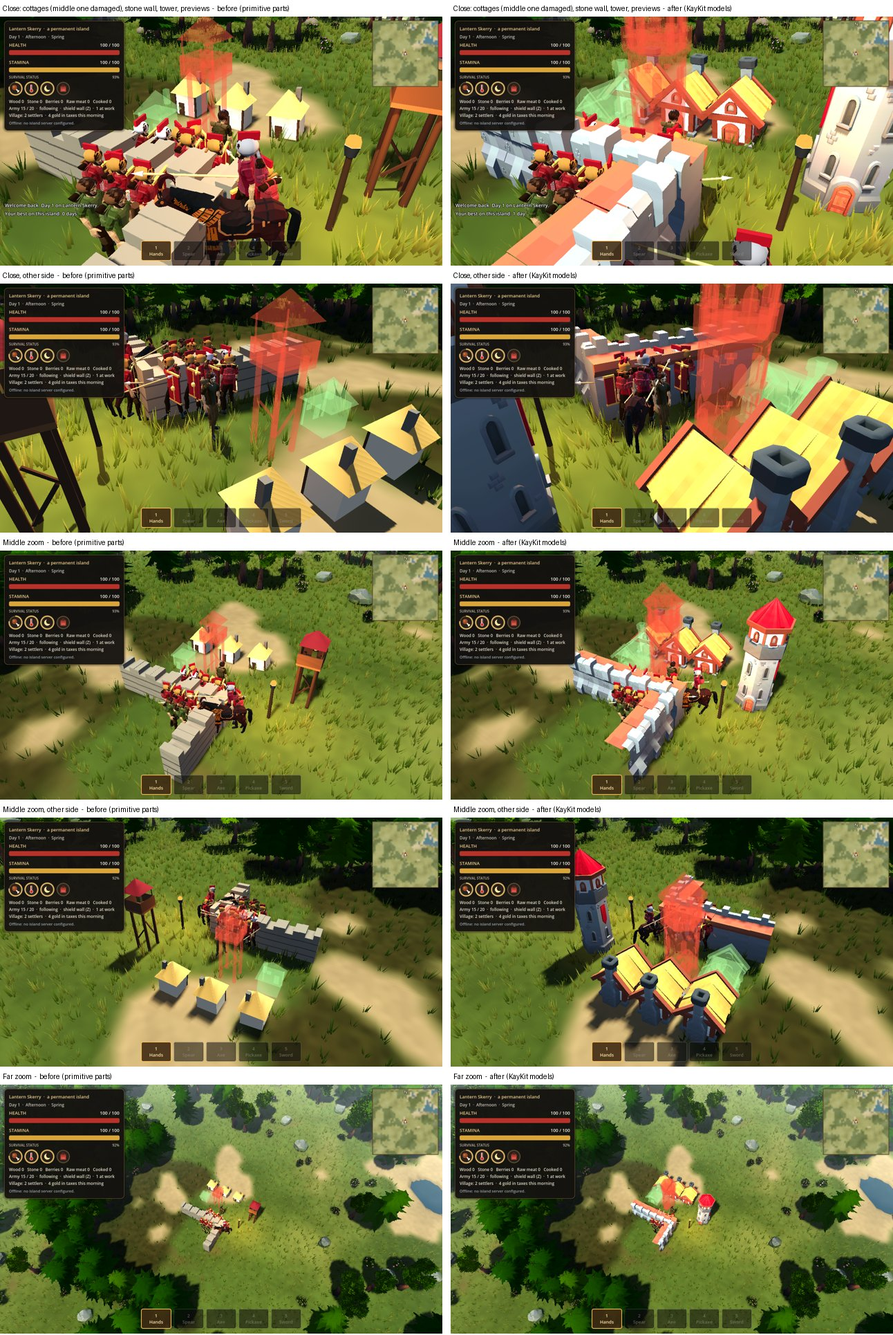
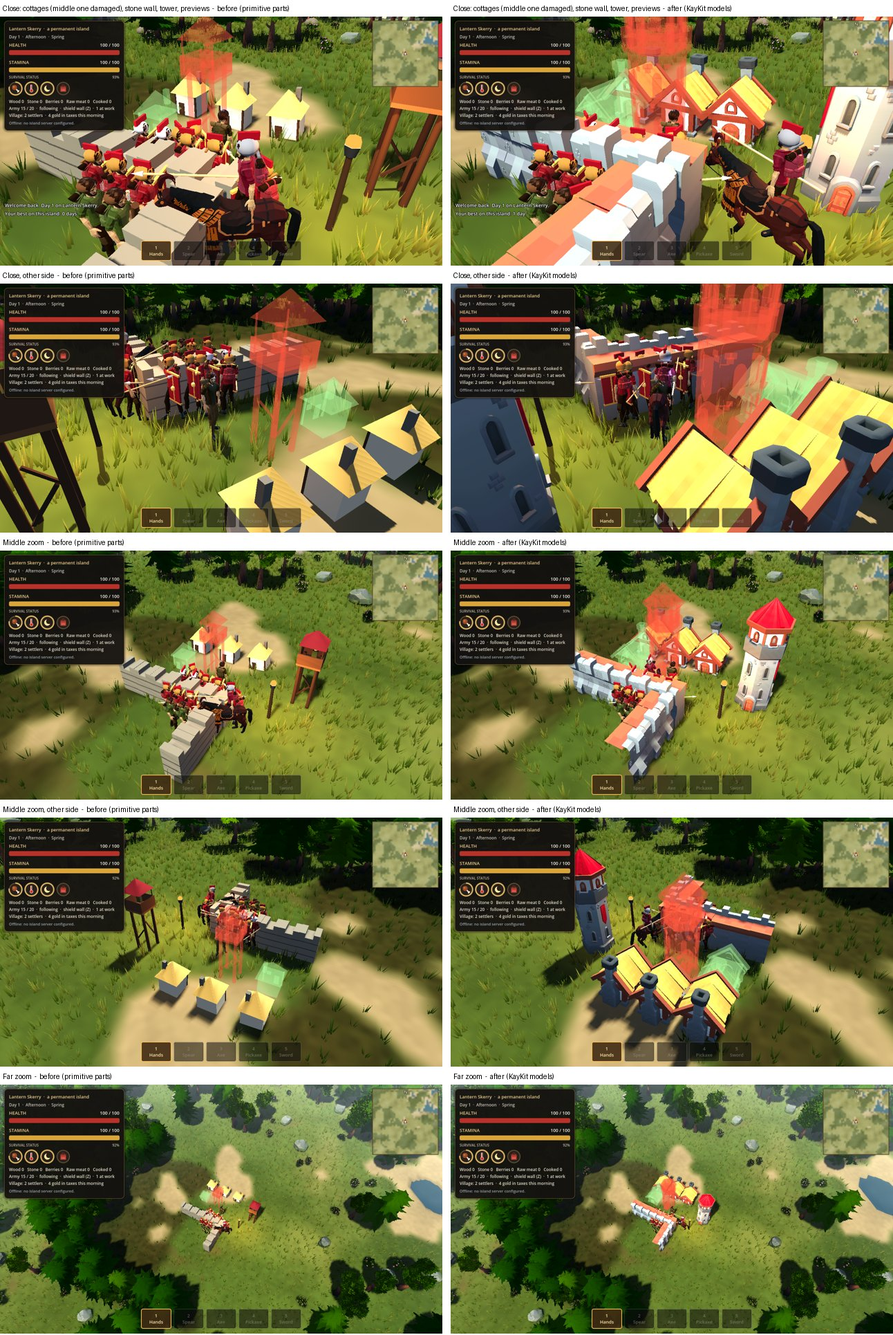
Building prototype: restore the cottages' soft night-time window glow
The cottage model's window glass is copied into a second surface, drawn with
the same shared glowing material the old cottage window used: no new
material, and 2 surfaces per cottage like before.

Claude-Session: https://claude.ai/code/session_01MPQsoYU4m9GjPH9jr69ReG

diff --git a/last-light/tools/prepare_building_models.py b/last-light/tools/prepare_building_models.py
@@ -13,7 +13,10 @@ For each building it:
     changes how they look: collision and placement stay on the one tile;
   * for the wall, keeps a 1 m section of the pack's 2 m wall (the pack's
     walls follow hexagon edges; the game's walls are one tile long);
-  * writes a .glb with no textures (the game loads the shared atlas itself).
+  * writes a .glb with no textures (the game loads the shared atlas itself);
+  * for the cottage, adds a second surface: copies of its window glass, just
+    in front of it, which the game draws with the shared glowing material the
+    old cottage's window used (its night-time glow).
 It also writes the atlas, hexagons_medieval.png. The pack's is a 1024x1024
 palette of flat colour blocks; at 128x128 no colour the three models use moves
 by more than 1/255, and it's 64 times less texture memory and download.
@@ -34,6 +37,9 @@ MODELS = {
 }
 
 ATLAS_SIZE = 128
+# Buildings whose windows glow at night, and the greys of window glass in the game's atlas.
+WINDOW_GLOW = {"cottage"}
+GLASS = {(0x8f, 0x86, 0x7e), (0x92, 0x8a, 0x81), (0x99, 0x91, 0x89), (0x9a, 0x93, 0x8b)}
 
 FMT = {5126: ("f", 4), 5125: ("I", 4), 5123: ("H", 2), 5121: ("B", 1)}
 WIDTH = {"SCALAR": 1, "VEC2": 2, "VEC3": 3, "VEC4": 4}
@@ -138,7 +144,8 @@ def convert(pos, nrm, uv, idx, scale, turn, keep):
     return P, N, U, I
 
 
-def write_glb(path, name, P, N, U, I):
+def write_glb(path, name, surfaces):
+    """surfaces: [(material name, positions, normals, uvs, indices)], one primitive each."""
     data = bytearray()
     views, accessors = [], []
 
@@ -158,12 +165,15 @@ def write_glb(path, name, P, N, U, I):
         accessors.append(acc)
         return len(accessors) - 1
 
-    prim = {"attributes": {"POSITION": add(P, 5126, "VEC3", 34962, True), "NORMAL": add(N, 5126, "VEC3", 34962),
-                           "TEXCOORD_0": add(U, 5126, "VEC2", 34962)},
-            "indices": add(I, 5123 if len(P) < 65536 else 5125, "SCALAR", 34963), "material": 0}
+    prims, materials = [], []
+    for mat, P, N, U, I in surfaces:
+        prims.append({"attributes": {"POSITION": add(P, 5126, "VEC3", 34962, True), "NORMAL": add(N, 5126, "VEC3", 34962),
+                                     "TEXCOORD_0": add(U, 5126, "VEC2", 34962)},
+                      "indices": add(I, 5123 if len(P) < 65536 else 5125, "SCALAR", 34963), "material": len(materials)})
+        materials.append({"name": mat})
     out = {"asset": {"version": "2.0", "generator": "Islander prepare_building_models.py"},
            "scene": 0, "scenes": [{"nodes": [0]}], "nodes": [{"mesh": 0, "name": name}],
-           "meshes": [{"name": name, "primitives": [prim]}], "materials": [{"name": "hexagons_medieval"}],
+           "meshes": [{"name": name, "primitives": prims}], "materials": materials,
            "accessors": accessors, "bufferViews": views, "buffers": [{"byteLength": len(data)}]}
     js = json.dumps(out, separators=(",", ":")).encode()
     js += b" " * (-len(js) % 4)
@@ -173,17 +183,46 @@ def write_glb(path, name, P, N, U, I):
     open(path, "wb").write(glb)
 
 
+def window_panes(P, N, U, I, atlas):
+    """Copies of the window-glass triangles, 4 mm in front of the glass, for the
+    night-time glow (drawn by the game with the old cottage window's shared
+    glowing material). Glass is told apart by its grey in the atlas, on walls."""
+    W, H = atlas.size
+    out_p, out_n, out_u, out_i = [], [], [], []
+    for t in range(0, len(I), 3):
+        n = N[I[t]]
+        if abs(n[1]) > 0.2:
+            continue  # floors, roofs and ledges, not walls
+        u = sum(U[I[t + k]][0] for k in range(3)) / 3.0
+        v = sum(U[I[t + k]][1] for k in range(3)) / 3.0
+        if atlas.getpixel((min(int(u * W), W - 1), min(int(v * H), H - 1))) not in GLASS:
+            continue
+        for k in range(3):
+            p, nk = P[I[t + k]], N[I[t + k]]
+            out_p.append(tuple(p[j] + nk[j] * 0.004 for j in range(3)))
+            out_n.append(nk)
+            out_u.append(U[I[t + k]])
+            out_i.append(len(out_i))
+    return out_p, out_n, out_u, out_i
+
+
 def main():
     src_dir, out_dir = sys.argv[1], sys.argv[2]
     os.makedirs(out_dir, exist_ok=True)
+    source_atlas = Image.open(os.path.join(src_dir, "neutral", "hexagons_medieval.png")).convert("RGB")
+    atlas = source_atlas.resize((ATLAS_SIZE, ATLAS_SIZE), Image.BOX)  # the game's atlas
     for kind, (name, scale, turn, keep) in MODELS.items():
         P, N, U, I = convert(*load(src_dir, name), scale, turn, keep)
-        write_glb(os.path.join(out_dir, kind + ".glb"), kind, P, N, U, I)
+        surfaces = [("hexagons_medieval", P, N, U, I)]
+        if kind in WINDOW_GLOW:
+            panes = window_panes(P, N, U, I, atlas)
+            surfaces.append(("WindowGlow", *panes))
+            print("%-13s    window panes: %d triangles" % (kind, len(panes[3]) // 3))
+        write_glb(os.path.join(out_dir, kind + ".glb"), kind, surfaces)
         size = [max(p[k] for p in P) - min(p[k] for p in P) for k in range(3)]
         print("%-13s <- %-34s %5d triangles %5d vertices  size %.2f x %.2f x %.2f m" % (
             kind, name, len(I) // 3, len(P), size[0], size[1], size[2]))
-    atlas = Image.open(os.path.join(src_dir, "neutral", "hexagons_medieval.png")).convert("RGB")
-    atlas.resize((ATLAS_SIZE, ATLAS_SIZE), Image.BOX).save(os.path.join(out_dir, "hexagons_medieval.png"), optimize=True)
+    atlas.save(os.path.join(out_dir, "hexagons_medieval.png"), optimize=True)
 
 
 if __name__ == "__main__":

diff --git a/last-light/GRAPHICS_BUILDING_PROTOTYPE.md b/last-light/GRAPHICS_BUILDING_PROTOTYPE.md
@@ -70,7 +70,7 @@ Sizes of the three prototyped types (old):
 - **In the game** (`structure.gd`, `BUILDING_MODELS`):
   - `_build_model()` adds one `MeshInstance3D` named `Model`, using a mesh loaded once and shared by every building of that type, with **one `StandardMaterial3D` shared by all three types** (the atlas, roughness 0.9 like every other building).
   - It skips the primitive parts entirely. `Art.bake()` finds nothing to merge, and the model is added to the building's drawn parts afterwards. So previews, the hit flash, the damage lean and removal all work on it unchanged.
-- **Phase 3D architecture kept.** One surface and one shared material per building, no more than the baked buildings. The cottage drops from 2 surfaces to 1: the old glowing window was a separate surface.
+- **Phase 3D architecture kept.** One surface and one shared material per building, no more than the baked buildings. The cottage has a second small surface for its glowing windows, drawn with the old window's shared glow material, exactly like the old cottage.
 - **Texture atlas.** All three share one 128² palette atlas, imported with mipmaps and GPU (S3TC/BPTC) compression. No normal maps, no transparency.
 - **LOD.** Godot's automatic mesh LOD, generated at import, verified working in the Compatibility renderer in phase 4A. The cottage drops to 727 triangles and the tower to 1,376 at a distance. The wall is too simple to reduce.
 - **Collision** stays tile-based, as before. The models have no collision shapes and need none.
@@ -102,7 +102,7 @@ Seen in the renders (`tools/building_shots.gd`), at close, middle and far zoom a
 - the torch post still lights the buildings at night.
 
 **Differences found:**
-- **No lit windows at night.** The old cottage had a softly glowing window at night. The KayKit atlas uses shaded gradients, so its window glass can't be picked out cleanly to make it glow. A follow-up could add a small glowing window quad, at the same cost as before (one extra shared-material surface).
+- **Night window glow: restored.** The first build lost the old cottage's softly glowing window. The prep script now copies the cottage model's window-glass triangles (5 arched windows, 45 triangles, told apart by their grey in the atlas) 4 mm in front of the glass, into a second surface of the same mesh. The game draws that surface with **the very same shared glowing material the old cottage window used** (`Art.shared_material(Color(1.0, 0.85, 0.5), 0.8)`), so it adds no new material. A cottage is again 2 surfaces, exactly like the old one. See `perf/buildings/night-window-glow.png`.
 - **Headless test noise.** In headless test runs only (Godot's dummy renderer), the phase 4A far-version and shadow-proxy instances log "Cannot set a buffer on a Multimesh…" because the dummy renderer doesn't keep instance buffers. It never appears with a real renderer (browser benchmark, native renders, the GPU-validation self-check), so players are unaffected.
 
 ## Step 6: visual validation
@@ -125,11 +125,11 @@ Images in `perf/buildings/`:
 
 | Type | Surfaces (draw calls per pass) | Materials | Triangles | Godot LOD | Lights |
 |---|---|---|---|---|---|
-| Cottage | 2 → **1** | 2 → 1 | 92 → 1,011 | 727 | 0 → 0 |
+| Cottage | 2 → 2 (building + glowing windows) | 2 → 2 (both shared) | 92 → 1,056 (1,011 + 45 glass) | 727 | 0 → 0 |
 | Stone wall | 1 → 1 | 1 → 1 | 72 → 259 | — | 0 → 0 |
 | Archer tower | 1 → 1 | 1 → 1 | 436 → 2,138 | 1,376 | 0 → 0 |
 
-All three new models share **one** material, against the old ones' one shared vertex-colour material plus the cottage window's glow material.
+All three new models share **one** building material. The cottage's windows reuse the old window's shared glow material. The audit and benchmark below were measured before the window glow was restored, which adds one 45-triangle surface per cottage: the same as the old cottage's window.
 
 ### Browser benchmark
 
@@ -154,7 +154,7 @@ The same web build, with `?buildings=0` (old) and without, run in the project's 
 | Video memory, village | 39.6 MB | 39.8 MB | +0.2 MB (vertex buffers) |
 
 How to read this:
-- **Draw calls fell slightly** (−1%) and mesh surfaces by 4. The cottages no longer need a separate glowing-window surface.
+- **Draw calls fell slightly** (−1%) and mesh surfaces by 4, because the first build had no glowing-window surface. With the glow restored, cottages are back to 2 surfaces, so draw calls match the old buildings.
 - **Primitives rose by 0.5–1%** in the village scenes. The models have more triangles, but 5 buildings are a small share of a village frame, and Godot's LOD trims them at a distance.
 - **Frame times are within noise.** Differences go both ways, and the same scene varied by up to ±10% between runs on this software renderer.
 - **Memory and download cost almost nothing**, once the atlas was shrunk. With the pack's 1024² atlas, the first run cost +0.8 MB of download and +0.6 MB of texture memory.
@@ -162,6 +162,6 @@ How to read this:
 
 ## Recommendation
 
-1. **Review the look** in the images, or live with `?buildings=0` for comparison after a merge. In particular: the brighter KayKit palette, the lost night window glow, and buildings now overhanging their tile.
+1. **Review the look** in the images, or live with `?buildings=0` for comparison after a merge. In particular: the brighter KayKit palette, and buildings now overhanging their tile.
 2. **If the style is right**, the same pipeline (`prepare_building_models.py`, `BUILDING_MODELS`) converts the other types. KayKit has matching models for most of them: barracks, blacksmith (forge), market, tavern, well, wooden fences and gates, walls with gates, and destroyed and scaffolding states for future damage and construction visuals.
 3. **For richer cottages later,** Quaternius's Medieval Village MegaKit can assemble larger, more detailed houses, at the cost of a few materials per building.
